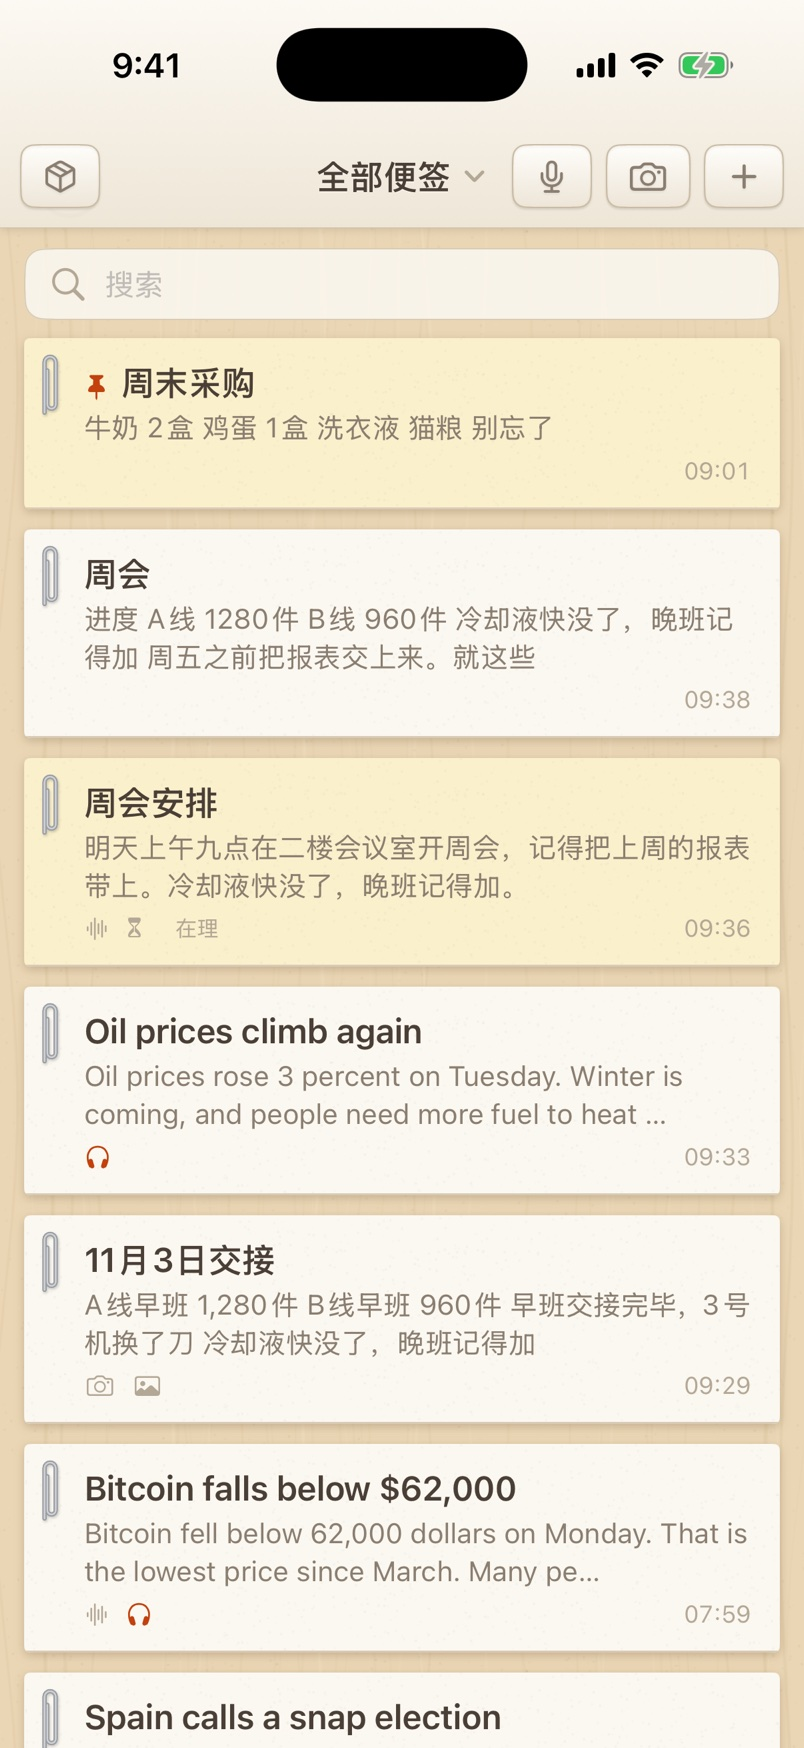
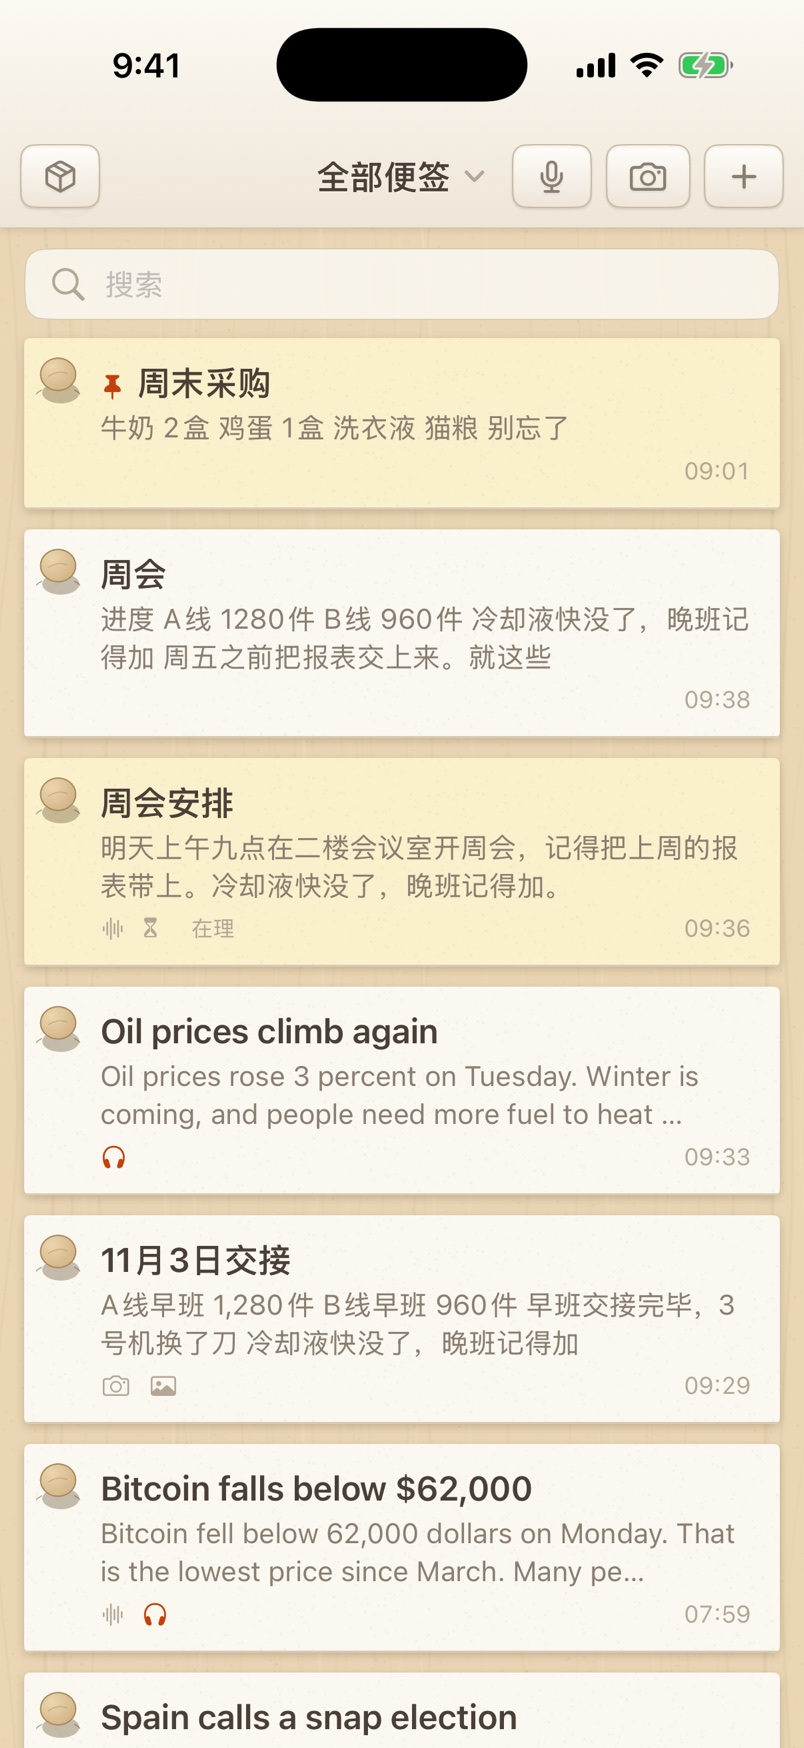
iOS 截图：b8b701e [skip ci]

diff --git a/ios/shots/index.html b/ios/shots/index.html
@@ -26,18 +26,18 @@ figcaption { text-align:center; color:var(--ink2); font-size:14px; margin-top:6p
 <body>
 <header>
 <h1>一叶笺 iPhone · 最新样子</h1>
-<p class="meta">0.7.6 · 提交 fc679d7 · 11-24 15:13（新加坡时间）</p>
-<p class="changed">这次改了：109 一叶笺 0.7.6：外观可选（跟随系统/纸/深色）</p>
-<p class="meta">拍照认字认对：印刷 99%，手写 89% · 52 张截图，CI 每次自动换</p>
+<p class="meta">0.7.7 · 提交 b8b701e · 11-24 15:40（新加坡时间）</p>
+<p class="changed">这次改了：110 一叶笺 0.7.7：小木钉、树叶排序、桌面名一叶笺、界面话换新</p>
+<p class="meta">拍照认字认对：印刷 99%，手写 89% · 44 张截图，CI 每次自动换</p>
 </header>
 <nav>
 <button data-lang="zh" aria-pressed="true">中文</button><button data-lang="en" aria-pressed="false">English</button>
 <button data-look="light" aria-pressed="true">浅色</button><button data-look="dark" aria-pressed="false">深色</button>
 </nav>
-<section class="set" data-set="zh-light"><figure><img src="zh-light/01-list.jpg?v=fc679d7" alt="列表" loading="lazy" width="402" height="874"><figcaption>列表</figcaption></figure><figure><img src="zh-light/02-editor.jpg?v=fc679d7" alt="写字页" loading="lazy" width="402" height="874"><figcaption>写字页</figcaption></figure><figure><img src="zh-light/03-markdown.jpg?v=fc679d7" alt="Markdown 五招" loading="lazy" width="402" height="874"><figcaption>Markdown 五招</figcaption></figure><figure><img src="zh-light/04-ocr.jpg?v=fc679d7" alt="拍照认字" loading="lazy" width="402" height="874"><figcaption>拍照认字</figcaption></figure><figure><img src="zh-light/05-share-note.jpg?v=fc679d7" alt="分享成图 · 便签" loading="lazy" width="402" height="874"><figcaption>分享成图 · 便签</figcaption></figure><figure><img src="zh-light/06-share-white.jpg?v=fc679d7" alt="分享成图 · 白纸" loading="lazy" width="402" height="874"><figcaption>分享成图 · 白纸</figcaption></figure><figure><img src="zh-light/07-settings.jpg?v=fc679d7" alt="设置" loading="lazy" width="402" height="874"><figcaption>设置</figcaption></figure><figure><img src="zh-light/08-butler.jpg?v=fc679d7" alt="大管家" loading="lazy" width="402" height="874"><figcaption>大管家</figcaption></figure><figure><img src="zh-light/09-voice.jpg?v=fc679d7" alt="录一段" loading="lazy" width="402" height="874"><figcaption>录一段</figcaption></figure><figure><img src="zh-light/10-voice-note.jpg?v=fc679d7" alt="录音笔记" loading="lazy" width="402" height="874"><figcaption>录音笔记</figcaption></figure><figure><img src="zh-light/11-listen.jpg?v=fc679d7" alt="听力列表" loading="lazy" width="402" height="874"><figcaption>听力列表</figcaption></figure><figure><img src="zh-light/12-listen-text.jpg?v=fc679d7" alt="听力 · 原文" loading="lazy" width="402" height="874"><figcaption>听力 · 原文</figcaption></figure><figure><img src="zh-light/13-toolbox.jpg?v=fc679d7" alt="工具箱（点开）" loading="lazy" width="402" height="874"><figcaption>工具箱（点开）</figcaption></figure></section>
-<section class="set" data-set="zh-dark" hidden><figure><img src="zh-dark/01-list.jpg?v=fc679d7" alt="列表" loading="lazy" width="402" height="874"><figcaption>列表</figcaption></figure><figure><img src="zh-dark/02-editor.jpg?v=fc679d7" alt="写字页" loading="lazy" width="402" height="874"><figcaption>写字页</figcaption></figure><figure><img src="zh-dark/03-markdown.jpg?v=fc679d7" alt="Markdown 五招" loading="lazy" width="402" height="874"><figcaption>Markdown 五招</figcaption></figure><figure><img src="zh-dark/04-ocr.jpg?v=fc679d7" alt="拍照认字" loading="lazy" width="402" height="874"><figcaption>拍照认字</figcaption></figure><figure><img src="zh-dark/05-share-note.jpg?v=fc679d7" alt="分享成图 · 便签" loading="lazy" width="402" height="874"><figcaption>分享成图 · 便签</figcaption></figure><figure><img src="zh-dark/06-share-white.jpg?v=fc679d7" alt="分享成图 · 白纸" loading="lazy" width="402" height="874"><figcaption>分享成图 · 白纸</figcaption></figure><figure><img src="zh-dark/07-settings.jpg?v=fc679d7" alt="设置" loading="lazy" width="402" height="874"><figcaption>设置</figcaption></figure><figure><img src="zh-dark/08-butler.jpg?v=fc679d7" alt="大管家" loading="lazy" width="402" height="874"><figcaption>大管家</figcaption></figure><figure><img src="zh-dark/09-voice.jpg?v=fc679d7" alt="录一段" loading="lazy" width="402" height="874"><figcaption>录一段</figcaption></figure><figure><img src="zh-dark/10-voice-note.jpg?v=fc679d7" alt="录音笔记" loading="lazy" width="402" height="874"><figcaption>录音笔记</figcaption></figure><figure><img src="zh-dark/11-listen.jpg?v=fc679d7" alt="听力列表" loading="lazy" width="402" height="874"><figcaption>听力列表</figcaption></figure><figure><img src="zh-dark/12-listen-text.jpg?v=fc679d7" alt="听力 · 原文" loading="lazy" width="402" height="874"><figcaption>听力 · 原文</figcaption></figure><figure><img src="zh-dark/13-toolbox.jpg?v=fc679d7" alt="工具箱（点开）" loading="lazy" width="402" height="874"><figcaption>工具箱（点开）</figcaption></figure></section>
-<section class="set" data-set="en-light" hidden><figure><img src="en-light/01-list.jpg?v=fc679d7" alt="列表" loading="lazy" width="402" height="874"><figcaption>列表</figcaption></figure><figure><img src="en-light/02-editor.jpg?v=fc679d7" alt="写字页" loading="lazy" width="402" height="874"><figcaption>写字页</figcaption></figure><figure><img src="en-light/03-markdown.jpg?v=fc679d7" alt="Markdown 五招" loading="lazy" width="402" height="874"><figcaption>Markdown 五招</figcaption></figure><figure><img src="en-light/04-ocr.jpg?v=fc679d7" alt="拍照认字" loading="lazy" width="402" height="874"><figcaption>拍照认字</figcaption></figure><figure><img src="en-light/05-share-note.jpg?v=fc679d7" alt="分享成图 · 便签" loading="lazy" width="402" height="874"><figcaption>分享成图 · 便签</figcaption></figure><figure><img src="en-light/06-share-white.jpg?v=fc679d7" alt="分享成图 · 白纸" loading="lazy" width="402" height="874"><figcaption>分享成图 · 白纸</figcaption></figure><figure><img src="en-light/07-settings.jpg?v=fc679d7" alt="设置" loading="lazy" width="402" height="874"><figcaption>设置</figcaption></figure><figure><img src="en-light/08-butler.jpg?v=fc679d7" alt="大管家" loading="lazy" width="402" height="874"><figcaption>大管家</figcaption></figure><figure><img src="en-light/09-voice.jpg?v=fc679d7" alt="录一段" loading="lazy" width="402" height="874"><figcaption>录一段</figcaption></figure><figure><img src="en-light/10-voice-note.jpg?v=fc679d7" alt="录音笔记" loading="lazy" width="402" height="874"><figcaption>录音笔记</figcaption></figure><figure><img src="en-light/11-listen.jpg?v=fc679d7" alt="听力列表" loading="lazy" width="402" height="874"><figcaption>听力列表</figcaption></figure><figure><img src="en-light/12-listen-text.jpg?v=fc679d7" alt="听力 · 原文" loading="lazy" width="402" height="874"><figcaption>听力 · 原文</figcaption></figure><figure><img src="en-light/13-toolbox.jpg?v=fc679d7" alt="工具箱（点开）" loading="lazy" width="402" height="874"><figcaption>工具箱（点开）</figcaption></figure></section>
-<section class="set" data-set="en-dark" hidden><figure><img src="en-dark/01-list.jpg?v=fc679d7" alt="列表" loading="lazy" width="402" height="874"><figcaption>列表</figcaption></figure><figure><img src="en-dark/02-editor.jpg?v=fc679d7" alt="写字页" loading="lazy" width="402" height="874"><figcaption>写字页</figcaption></figure><figure><img src="en-dark/03-markdown.jpg?v=fc679d7" alt="Markdown 五招" loading="lazy" width="402" height="874"><figcaption>Markdown 五招</figcaption></figure><figure><img src="en-dark/04-ocr.jpg?v=fc679d7" alt="拍照认字" loading="lazy" width="402" height="874"><figcaption>拍照认字</figcaption></figure><figure><img src="en-dark/05-share-note.jpg?v=fc679d7" alt="分享成图 · 便签" loading="lazy" width="402" height="874"><figcaption>分享成图 · 便签</figcaption></figure><figure><img src="en-dark/06-share-white.jpg?v=fc679d7" alt="分享成图 · 白纸" loading="lazy" width="402" height="874"><figcaption>分享成图 · 白纸</figcaption></figure><figure><img src="en-dark/07-settings.jpg?v=fc679d7" alt="设置" loading="lazy" width="402" height="874"><figcaption>设置</figcaption></figure><figure><img src="en-dark/08-butler.jpg?v=fc679d7" alt="大管家" loading="lazy" width="402" height="874"><figcaption>大管家</figcaption></figure><figure><img src="en-dark/09-voice.jpg?v=fc679d7" alt="录一段" loading="lazy" width="402" height="874"><figcaption>录一段</figcaption></figure><figure><img src="en-dark/10-voice-note.jpg?v=fc679d7" alt="录音笔记" loading="lazy" width="402" height="874"><figcaption>录音笔记</figcaption></figure><figure><img src="en-dark/11-listen.jpg?v=fc679d7" alt="听力列表" loading="lazy" width="402" height="874"><figcaption>听力列表</figcaption></figure><figure><img src="en-dark/12-listen-text.jpg?v=fc679d7" alt="听力 · 原文" loading="lazy" width="402" height="874"><figcaption>听力 · 原文</figcaption></figure><figure><img src="en-dark/13-toolbox.jpg?v=fc679d7" alt="工具箱（点开）" loading="lazy" width="402" height="874"><figcaption>工具箱（点开）</figcaption></figure></section>
+<section class="set" data-set="zh-light"><figure><img src="zh-light/01-list.jpg?v=b8b701e" alt="列表" loading="lazy" width="402" height="874"><figcaption>列表</figcaption></figure><figure><img src="zh-light/02-editor.jpg?v=b8b701e" alt="写字页" loading="lazy" width="402" height="874"><figcaption>写字页</figcaption></figure><figure><img src="zh-light/03-markdown.jpg?v=b8b701e" alt="Markdown 五招" loading="lazy" width="402" height="874"><figcaption>Markdown 五招</figcaption></figure><figure><img src="zh-light/04-ocr.jpg?v=b8b701e" alt="拍照认字" loading="lazy" width="402" height="874"><figcaption>拍照认字</figcaption></figure><figure><img src="zh-light/05-share-note.jpg?v=b8b701e" alt="分享成图 · 便签" loading="lazy" width="402" height="874"><figcaption>分享成图 · 便签</figcaption></figure></section>
+<section class="set" data-set="zh-dark" hidden><figure><img src="zh-dark/01-list.jpg?v=b8b701e" alt="列表" loading="lazy" width="402" height="874"><figcaption>列表</figcaption></figure><figure><img src="zh-dark/02-editor.jpg?v=b8b701e" alt="写字页" loading="lazy" width="402" height="874"><figcaption>写字页</figcaption></figure><figure><img src="zh-dark/03-markdown.jpg?v=b8b701e" alt="Markdown 五招" loading="lazy" width="402" height="874"><figcaption>Markdown 五招</figcaption></figure><figure><img src="zh-dark/04-ocr.jpg?v=b8b701e" alt="拍照认字" loading="lazy" width="402" height="874"><figcaption>拍照认字</figcaption></figure><figure><img src="zh-dark/05-share-note.jpg?v=b8b701e" alt="分享成图 · 便签" loading="lazy" width="402" height="874"><figcaption>分享成图 · 便签</figcaption></figure><figure><img src="zh-dark/06-share-white.jpg?v=b8b701e" alt="分享成图 · 白纸" loading="lazy" width="402" height="874"><figcaption>分享成图 · 白纸</figcaption></figure><figure><img src="zh-dark/07-settings.jpg?v=b8b701e" alt="设置" loading="lazy" width="402" height="874"><figcaption>设置</figcaption></figure><figure><img src="zh-dark/08-butler.jpg?v=b8b701e" alt="大管家" loading="lazy" width="402" height="874"><figcaption>大管家</figcaption></figure><figure><img src="zh-dark/09-voice.jpg?v=b8b701e" alt="录一段" loading="lazy" width="402" height="874"><figcaption>录一段</figcaption></figure><figure><img src="zh-dark/10-voice-note.jpg?v=b8b701e" alt="录音笔记" loading="lazy" width="402" height="874"><figcaption>录音笔记</figcaption></figure><figure><img src="zh-dark/11-listen.jpg?v=b8b701e" alt="听力列表" loading="lazy" width="402" height="874"><figcaption>听力列表</figcaption></figure><figure><img src="zh-dark/12-listen-text.jpg?v=b8b701e" alt="听力 · 原文" loading="lazy" width="402" height="874"><figcaption>听力 · 原文</figcaption></figure><figure><img src="zh-dark/13-toolbox.jpg?v=b8b701e" alt="工具箱（点开）" loading="lazy" width="402" height="874"><figcaption>工具箱（点开）</figcaption></figure></section>
+<section class="set" data-set="en-light" hidden><figure><img src="en-light/01-list.jpg?v=b8b701e" alt="列表" loading="lazy" width="402" height="874"><figcaption>列表</figcaption></figure><figure><img src="en-light/02-editor.jpg?v=b8b701e" alt="写字页" loading="lazy" width="402" height="874"><figcaption>写字页</figcaption></figure><figure><img src="en-light/03-markdown.jpg?v=b8b701e" alt="Markdown 五招" loading="lazy" width="402" height="874"><figcaption>Markdown 五招</figcaption></figure><figure><img src="en-light/04-ocr.jpg?v=b8b701e" alt="拍照认字" loading="lazy" width="402" height="874"><figcaption>拍照认字</figcaption></figure><figure><img src="en-light/05-share-note.jpg?v=b8b701e" alt="分享成图 · 便签" loading="lazy" width="402" height="874"><figcaption>分享成图 · 便签</figcaption></figure><figure><img src="en-light/06-share-white.jpg?v=b8b701e" alt="分享成图 · 白纸" loading="lazy" width="402" height="874"><figcaption>分享成图 · 白纸</figcaption></figure><figure><img src="en-light/07-settings.jpg?v=b8b701e" alt="设置" loading="lazy" width="402" height="874"><figcaption>设置</figcaption></figure><figure><img src="en-light/08-butler.jpg?v=b8b701e" alt="大管家" loading="lazy" width="402" height="874"><figcaption>大管家</figcaption></figure><figure><img src="en-light/09-voice.jpg?v=b8b701e" alt="录一段" loading="lazy" width="402" height="874"><figcaption>录一段</figcaption></figure><figure><img src="en-light/10-voice-note.jpg?v=b8b701e" alt="录音笔记" loading="lazy" width="402" height="874"><figcaption>录音笔记</figcaption></figure><figure><img src="en-light/11-listen.jpg?v=b8b701e" alt="听力列表" loading="lazy" width="402" height="874"><figcaption>听力列表</figcaption></figure><figure><img src="en-light/12-listen-text.jpg?v=b8b701e" alt="听力 · 原文" loading="lazy" width="402" height="874"><figcaption>听力 · 原文</figcaption></figure><figure><img src="en-light/13-toolbox.jpg?v=b8b701e" alt="工具箱（点开）" loading="lazy" width="402" height="874"><figcaption>工具箱（点开）</figcaption></figure></section>
+<section class="set" data-set="en-dark" hidden><figure><img src="en-dark/01-list.jpg?v=b8b701e" alt="列表" loading="lazy" width="402" height="874"><figcaption>列表</figcaption></figure><figure><img src="en-dark/02-editor.jpg?v=b8b701e" alt="写字页" loading="lazy" width="402" height="874"><figcaption>写字页</figcaption></figure><figure><img src="en-dark/03-markdown.jpg?v=b8b701e" alt="Markdown 五招" loading="lazy" width="402" height="874"><figcaption>Markdown 五招</figcaption></figure><figure><img src="en-dark/04-ocr.jpg?v=b8b701e" alt="拍照认字" loading="lazy" width="402" height="874"><figcaption>拍照认字</figcaption></figure><figure><img src="en-dark/05-share-note.jpg?v=b8b701e" alt="分享成图 · 便签" loading="lazy" width="402" height="874"><figcaption>分享成图 · 便签</figcaption></figure><figure><img src="en-dark/06-share-white.jpg?v=b8b701e" alt="分享成图 · 白纸" loading="lazy" width="402" height="874"><figcaption>分享成图 · 白纸</figcaption></figure><figure><img src="en-dark/07-settings.jpg?v=b8b701e" alt="设置" loading="lazy" width="402" height="874"><figcaption>设置</figcaption></figure><figure><img src="en-dark/08-butler.jpg?v=b8b701e" alt="大管家" loading="lazy" width="402" height="874"><figcaption>大管家</figcaption></figure><figure><img src="en-dark/09-voice.jpg?v=b8b701e" alt="录一段" loading="lazy" width="402" height="874"><figcaption>录一段</figcaption></figure><figure><img src="en-dark/10-voice-note.jpg?v=b8b701e" alt="录音笔记" loading="lazy" width="402" height="874"><figcaption>录音笔记</figcaption></figure><figure><img src="en-dark/11-listen.jpg?v=b8b701e" alt="听力列表" loading="lazy" width="402" height="874"><figcaption>听力列表</figcaption></figure><figure><img src="en-dark/12-listen-text.jpg?v=b8b701e" alt="听力 · 原文" loading="lazy" width="402" height="874"><figcaption>听力 · 原文</figcaption></figure><figure><img src="en-dark/13-toolbox.jpg?v=b8b701e" alt="工具箱（点开）" loading="lazy" width="402" height="874"><figcaption>工具箱（点开）</figcaption></figure></section>
 <script>
 let lang = "zh", look = "light";
 function show() {

diff --git a/ios/shots/ocr/report.md b/ios/shots/ocr/report.md
@@ -4,16 +4,16 @@
 
 | 图 | 类型 | 本机认对 | 标黄段 | 标黄里真错 | 错字被标黄 | 用时 |
 |---|---|---|---|---|---|---|
-| h1 | 手写 | 91% | 2 | 2/2（100%） | 2/3 | 3.1s |
-| h2 | 手写 | 100% | 1 | 0/1（0%） | — | 0.9s |
-| h3 | 手写 | 83% | 2 | 2/2（100%） | 3/4 | 1.2s |
-| h4 | 手写 | 60% | 4 | 4/4（100%） | 8/8 | 0.9s |
-| h5 | 手写 | 100% | 0 | — | — | 1.1s |
-| p1 | 印刷 | 100% | 0 | — | — | 1.1s |
-| p2 | 印刷 | 100% | 1 | 0/1（0%） | — | 1.2s |
-| p3 | 印刷 | 100% | 0 | — | — | 1.7s |
-| p4 | 印刷 | 99% | 0 | — | 0/1 | 1.4s |
-| p5 | 印刷 | 94% | 1 | 1/1（100%） | 2/2 | 1.8s |
+| h1 | 手写 | 91% | 2 | 2/2（100%） | 2/3 | 3.6s |
+| h2 | 手写 | 100% | 1 | 0/1（0%） | — | 1.2s |
+| h3 | 手写 | 83% | 2 | 2/2（100%） | 3/4 | 1.4s |
+| h4 | 手写 | 60% | 4 | 4/4（100%） | 8/8 | 1.7s |
+| h5 | 手写 | 100% | 0 | — | — | 1.4s |
+| p1 | 印刷 | 100% | 0 | — | — | 1.9s |
+| p2 | 印刷 | 100% | 1 | 0/1（0%） | — | 2.0s |
+| p3 | 印刷 | 100% | 0 | — | — | 1.6s |
+| p4 | 印刷 | 99% | 0 | — | 0/1 | 2.4s |
+| p5 | 印刷 | 94% | 1 | 1/1（100%） | 2/2 | 2.9s |
 | **印刷合计** | | **99%** | 2 | 1/2（50%） | 2/3 | |
 | **手写合计** | | **89%** | 9 | 8/9（89%） | 13/15 | |
 

diff --git a/ios/shots/README.md b/ios/shots/README.md
@@ -1,5 +1,5 @@
 # 截图和样张（CI 自动生成，每次覆盖）
 
-- 提交：fc679d7
+- 提交：b8b701e
 - Xcode 26.6，模拟器：iPhone 17 Pro（iOS-26-5）
 - 目录：zh-light、zh-dark、en-light、en-dark 各 12 张；ocr/ 是 10 张认字样张的结果
